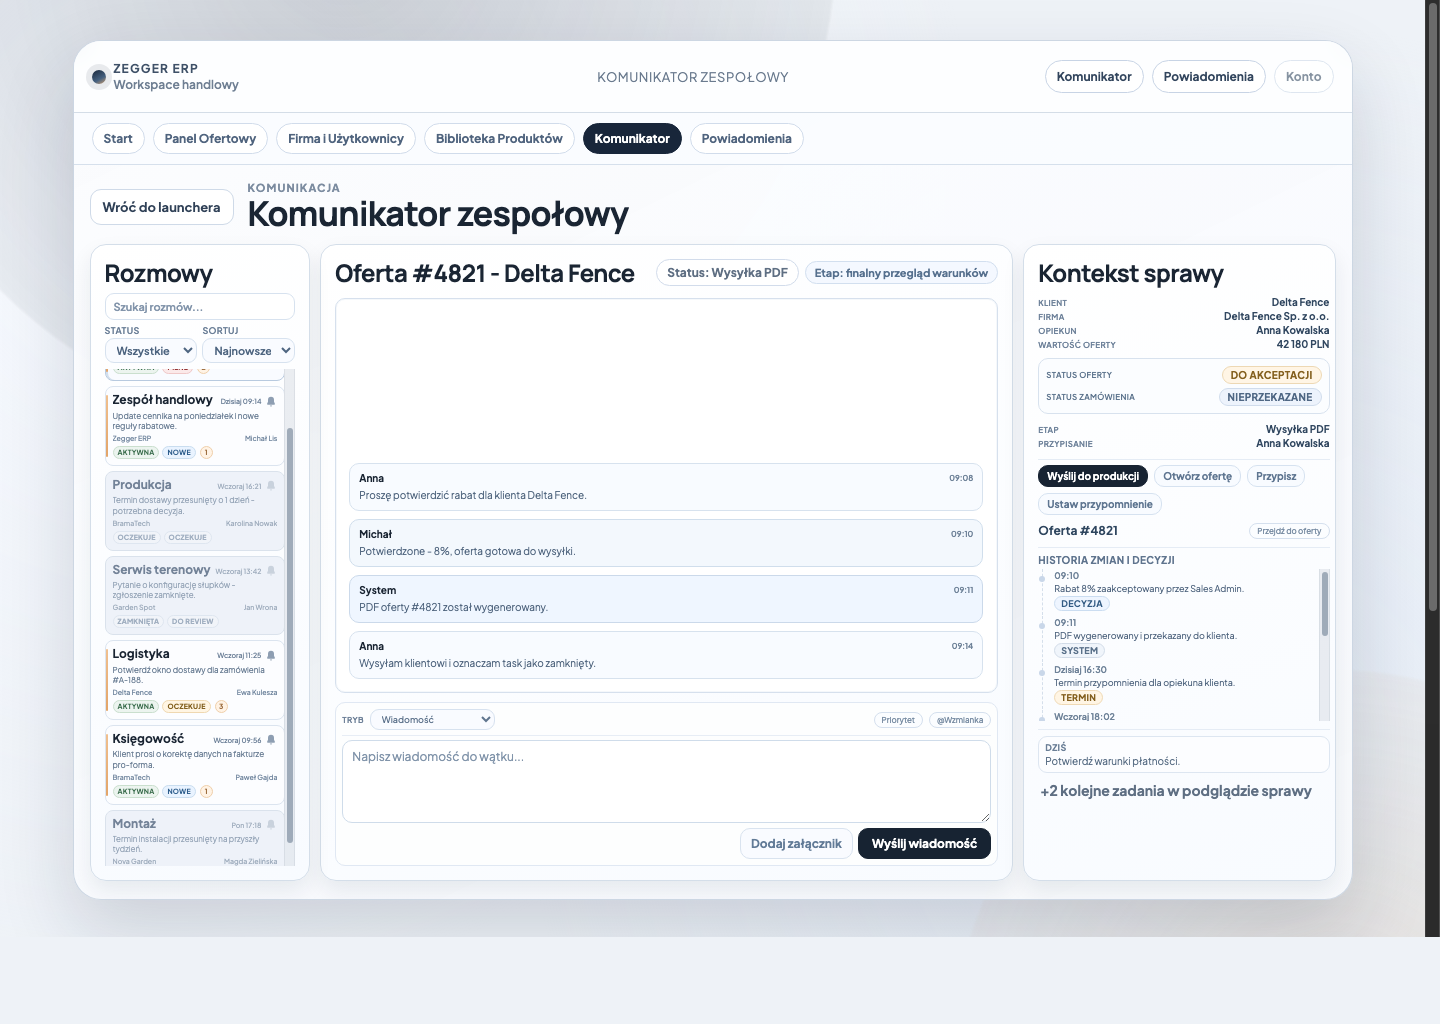
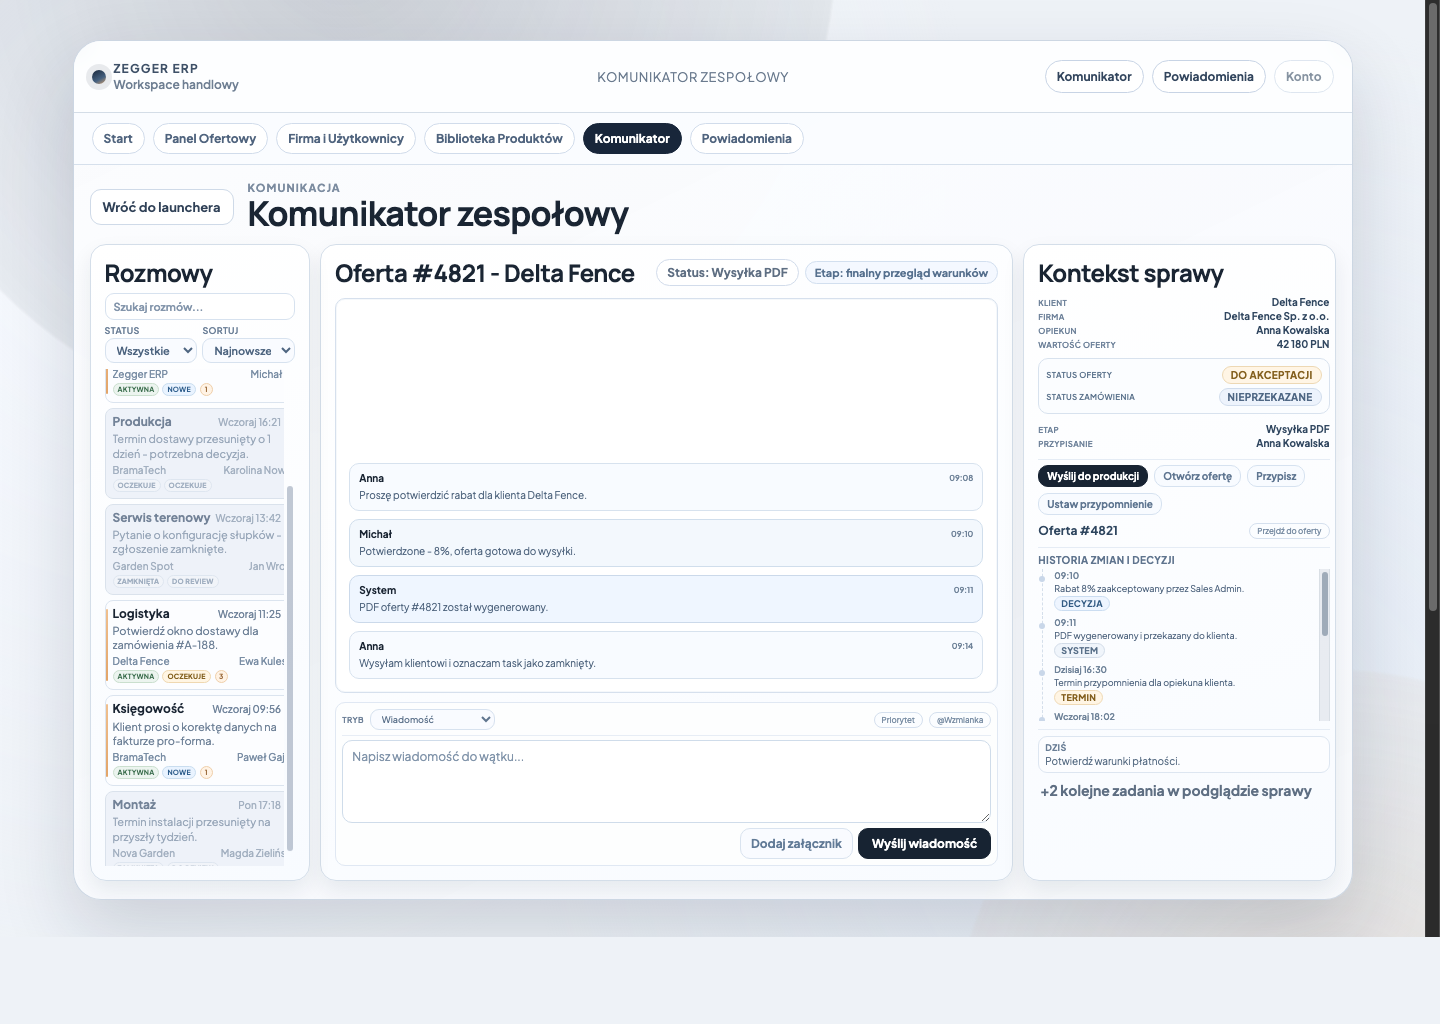
456yujhg

Changed region(s): [[0.0625, 0.3438, 0.2188, 0.8438]]

diff --git a/prototype-ui/assets/css/prototype.css b/prototype-ui/assets/css/prototype.css
@@ -2655,7 +2655,7 @@ textarea {
   overflow-y: auto;
   overflow-x: hidden;
   position: relative;
-  padding-right: 4px;
+  padding-right: 0;
 }
 
 .zgs-chat-list-search input {
@@ -2766,7 +2766,7 @@ textarea {
 
 .zgs-chat-item-time {
   color: #72859c;
-  font-size: 7px;
+  font-size: 10px;
   font-weight: 500;
   white-space: nowrap;
   flex-shrink: 0;
@@ -2798,7 +2798,7 @@ textarea {
 .zgs-chat-item-company,
 .zgs-chat-item-participant {
   color: #7a8ea5;
-  font-size: 7px;
+  font-size: 10px;
   font-weight: 500;
   white-space: nowrap;
   overflow: hidden;
@@ -2827,9 +2827,9 @@ textarea {
 .zgs-surface p.zgs-chat-item-text {
   margin: 0;
   color: #6f8298;
-  font-size: 8px;
+  font-size: 11px;
   font-weight: 400;
-  line-height: 1.26;
+  line-height: 1.3;
   display: -webkit-box;
   -webkit-line-clamp: 2;
   -webkit-box-orient: vertical;
@@ -3580,32 +3580,31 @@ textarea {
   background: #edf4fc;
 }
 
-.zgs-chat-scroll-indicator {
-  position: absolute;
-  right: 3px;
-  top: 6px;
-  bottom: 6px;
-  width: 3px;
+.zgs-chat-list-scroll {
+  scrollbar-width: thin;
+  scrollbar-color: rgba(120, 136, 160, 0.45) transparent;
+}
+
+.zgs-chat-list-scroll::-webkit-scrollbar {
+  width: 6px;
+  height: 6px;
+}
+
+.zgs-chat-list-scroll::-webkit-scrollbar-track {
+  background: transparent;
+}
+
+.zgs-chat-list-scroll::-webkit-scrollbar-thumb {
+  background: rgba(120, 136, 160, 0.45);
   border-radius: 999px;
-  background: rgba(136, 151, 171, 0.13);
-  opacity: 0;
-  pointer-events: none;
-  transition: opacity 0.18s ease;
+  border: 0;
+  box-shadow: none;
 }
 
-.zgs-chat-scroll-indicator.is-visible {
-  opacity: 1;
+.zgs-chat-list-scroll::-webkit-scrollbar-thumb:hover {
+  background: rgba(120, 136, 160, 0.62);
 }
 
-.zgs-chat-scroll-indicator-thumb {
-  display: block;
-  width: 100%;
-  border-radius: 999px;
-  background: rgba(67, 88, 113, 0.34);
-  box-shadow: inset 0 0 0 1px rgba(244, 248, 253, 0.42);
-}
-
-.zgs-chat-list-scroll,
 .zgs-chat-thread,
 .zgs-chat-pane-context,
 .zgs-chat-status-history {
@@ -3613,7 +3612,6 @@ textarea {
   scrollbar-color: rgba(67, 88, 113, 0.44) rgba(136, 151, 171, 0.16);
 }
 
-.zgs-chat-list-scroll::-webkit-scrollbar,
 .zgs-chat-thread::-webkit-scrollbar,
 .zgs-chat-pane-context::-webkit-scrollbar,
 .zgs-chat-status-history::-webkit-scrollbar {
@@ -3621,7 +3619,6 @@ textarea {
   height: 5px;
 }
 
-.zgs-chat-list-scroll::-webkit-scrollbar-track,
 .zgs-chat-thread::-webkit-scrollbar-track,
 .zgs-chat-pane-context::-webkit-scrollbar-track,
 .zgs-chat-status-history::-webkit-scrollbar-track {
@@ -3629,7 +3626,6 @@ textarea {
   border-radius: 999px;
 }
 
-.zgs-chat-list-scroll::-webkit-scrollbar-thumb,
 .zgs-chat-thread::-webkit-scrollbar-thumb,
 .zgs-chat-pane-context::-webkit-scrollbar-thumb,
 .zgs-chat-status-history::-webkit-scrollbar-thumb {

diff --git a/prototype-ui/assets/js/app.js b/prototype-ui/assets/js/app.js
@@ -1844,51 +1844,6 @@
       renderThreadRows(filtered);
     }
 
-    function initLocalScrollIndicator(container) {
-      if (!container) {
-        return;
-      }
-      var indicator = document.createElement("div");
-      indicator.className = "zgs-chat-scroll-indicator";
-      indicator.setAttribute("aria-hidden", "true");
-      indicator.innerHTML = '<span class="zgs-chat-scroll-indicator-thumb"></span>';
-      container.appendChild(indicator);
-
-      var thumb = indicator.querySelector(".zgs-chat-scroll-indicator-thumb");
-      if (!thumb) {
-        return;
-      }
-
-      function updateState() {
-        var scrollHeight = container.scrollHeight;
-        var clientHeight = container.clientHeight;
-        var hasOverflow = scrollHeight > clientHeight + 3;
-        indicator.classList.toggle("is-visible", hasOverflow);
-
-        if (!hasOverflow) {
-          thumb.style.transform = "translateY(0px)";
-          thumb.style.height = "0px";
-          return;
-        }
-
-        var trackHeight = Math.max(0, indicator.clientHeight);
-        var thumbHeight = Math.max(22, Math.round((clientHeight / scrollHeight) * trackHeight));
-        var maxScroll = Math.max(1, scrollHeight - clientHeight);
-        var maxThumbTravel = Math.max(0, trackHeight - thumbHeight);
-        var ratio = Math.min(1, container.scrollTop / maxScroll);
-        thumb.style.height = thumbHeight + "px";
-        thumb.style.transform = "translateY(" + Math.round(maxThumbTravel * ratio) + "px)";
-      }
-
-      container.addEventListener("scroll", updateState, { passive: true });
-      window.addEventListener("resize", updateState);
-      if (window.ResizeObserver) {
-        var observer = new ResizeObserver(updateState);
-        observer.observe(container);
-      }
-      updateState();
-    }
-
     function applyProductionEffect() {
       if (productionApplied) {
         return;
